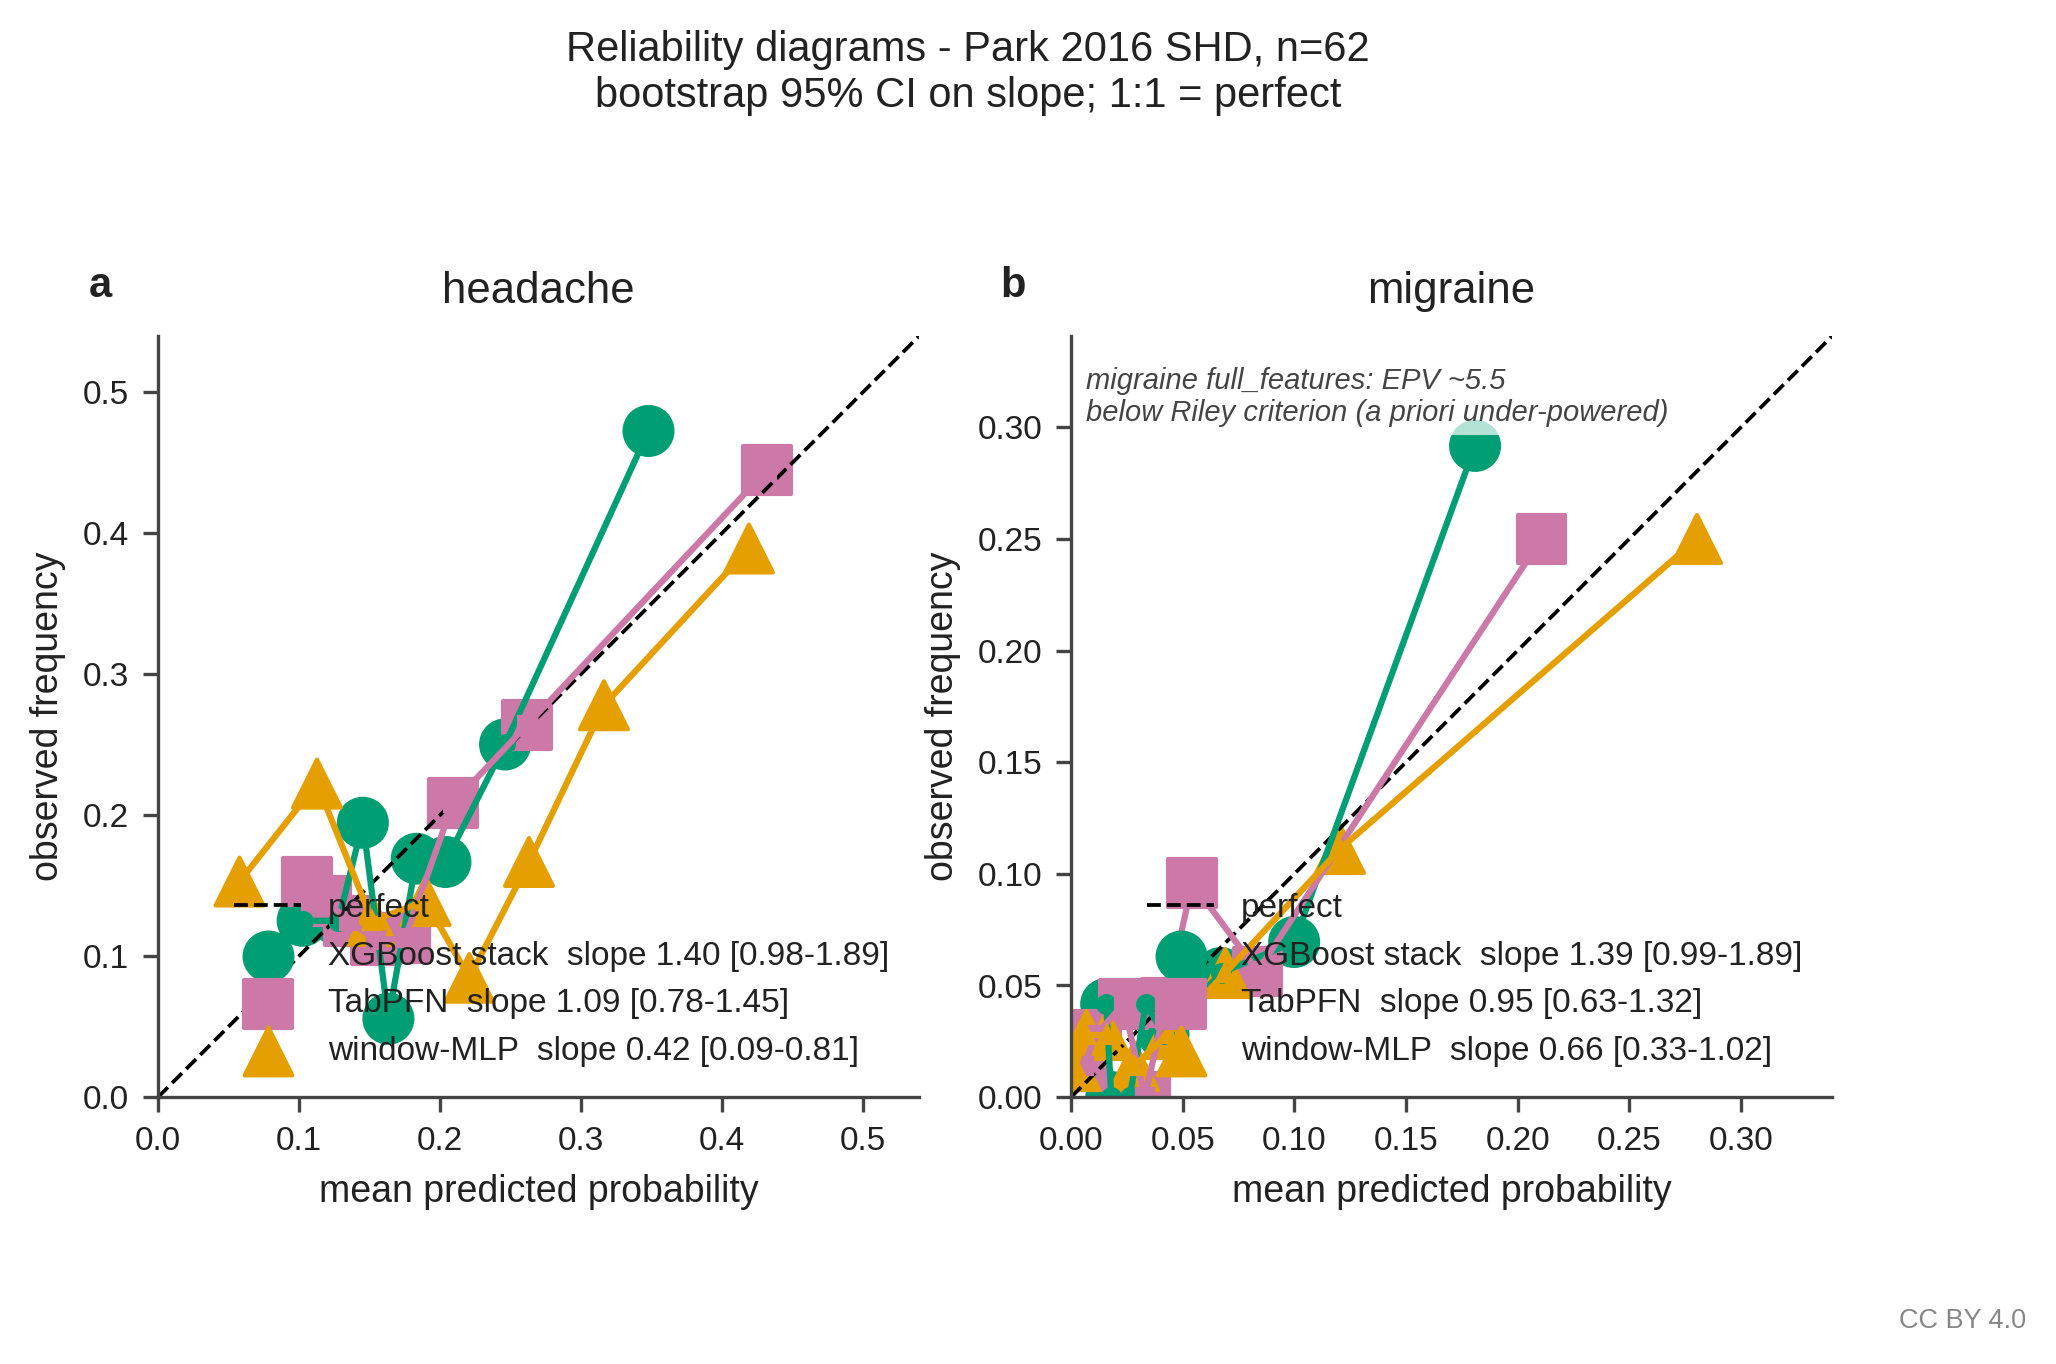
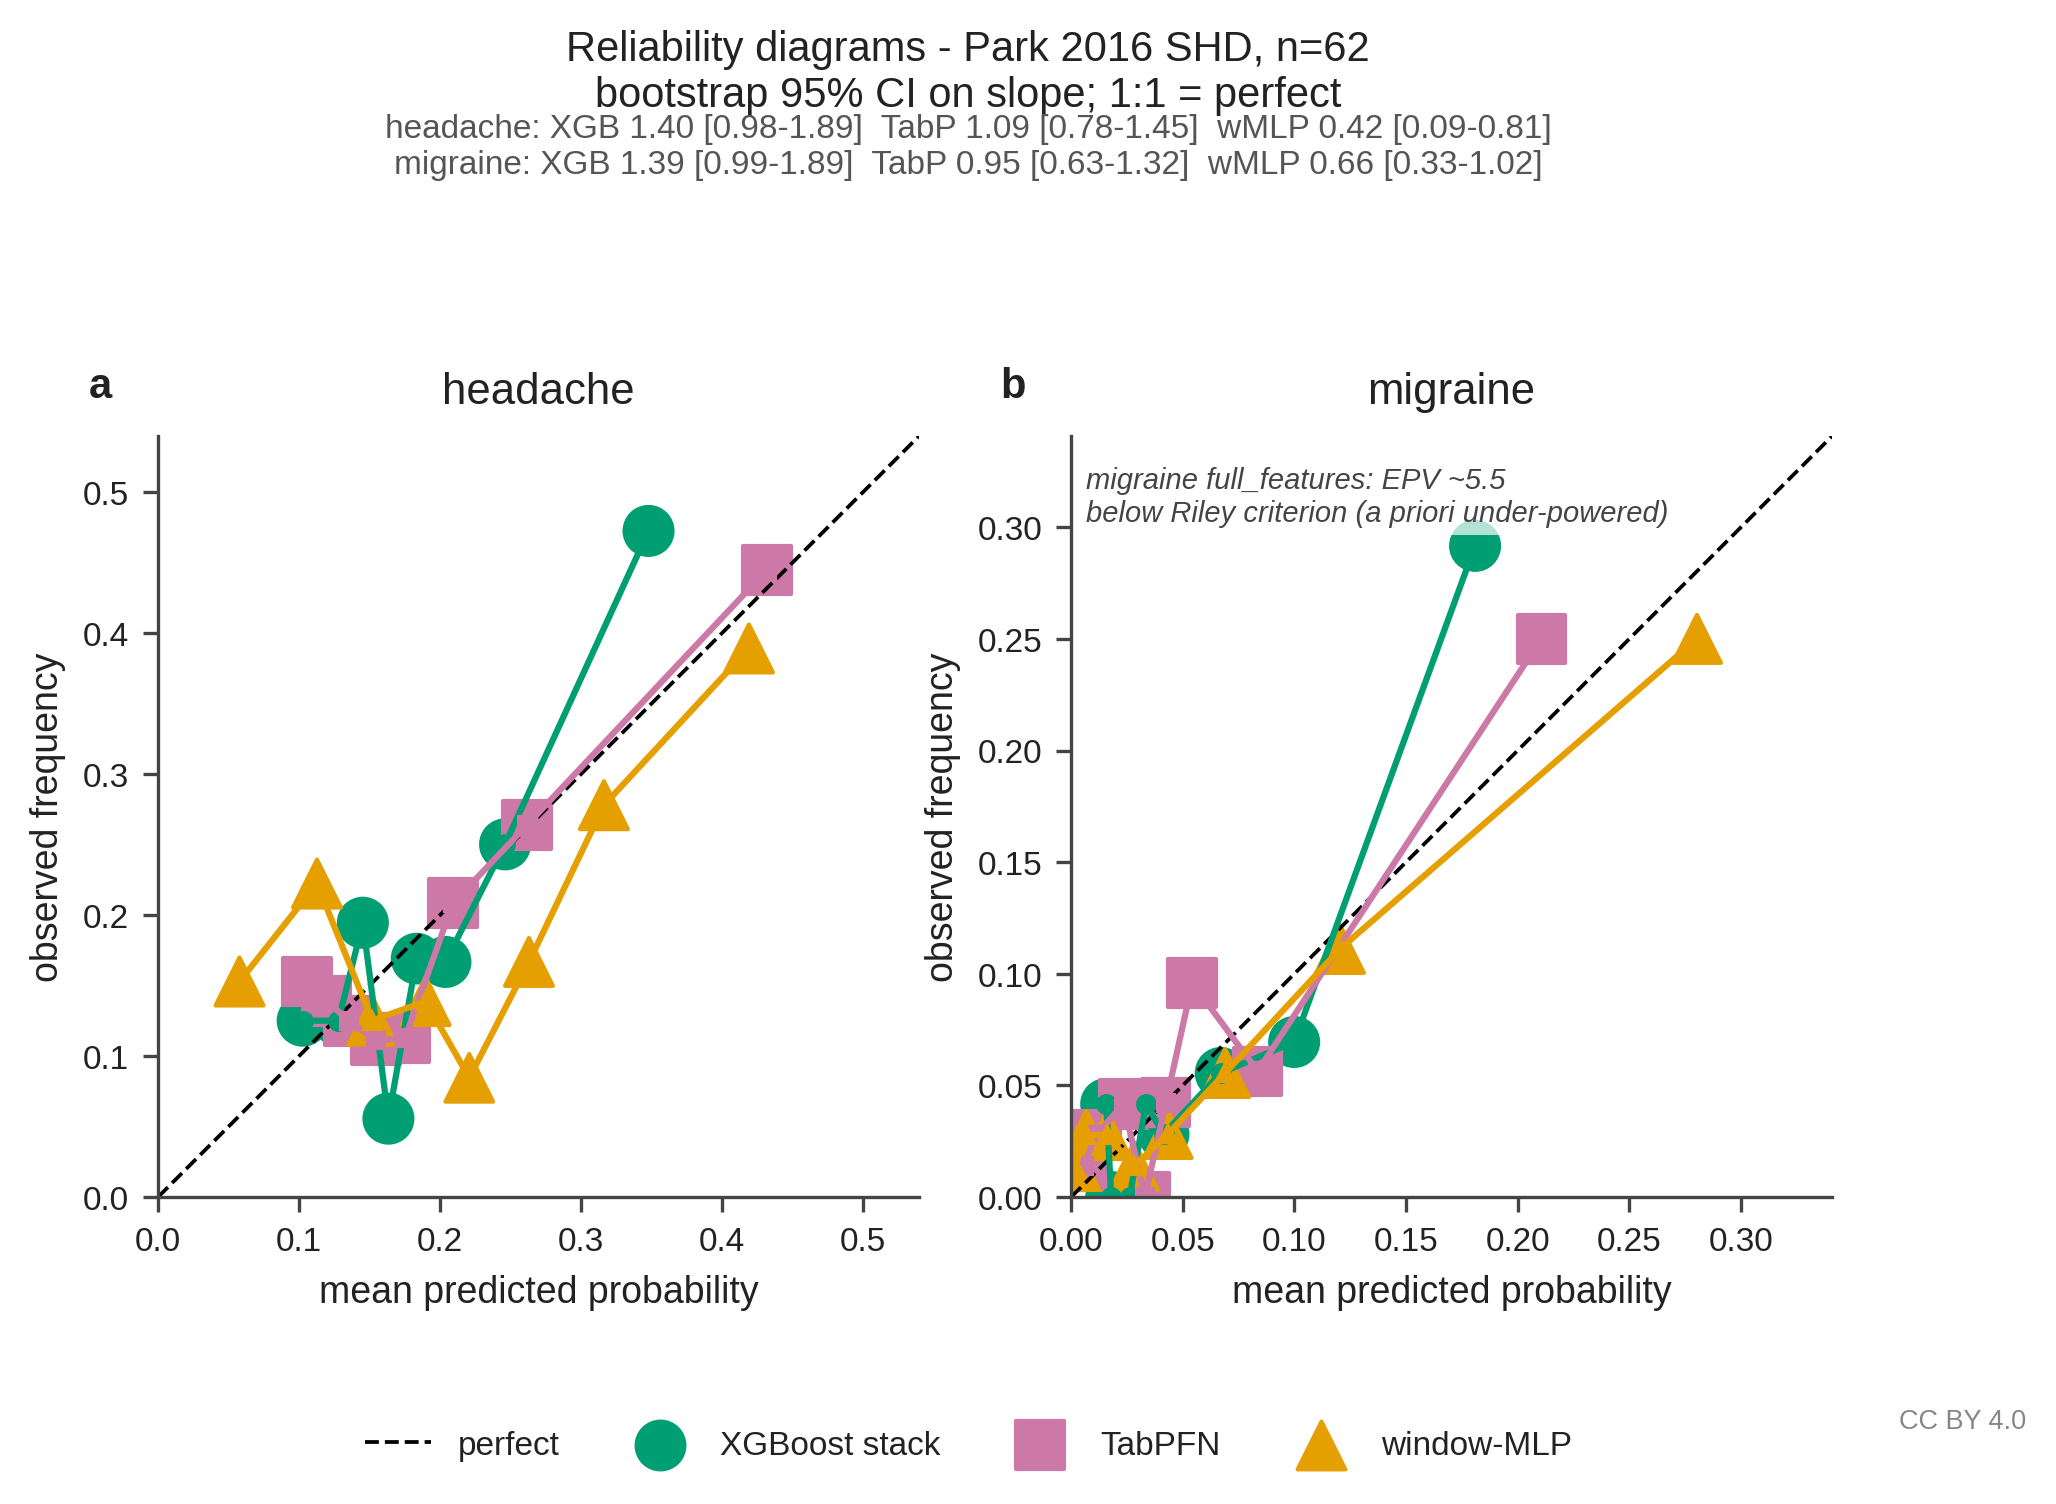
fixed fig_c3 calibration legend occluding data by relocating it to a shared frameless block below the figure per design-guide §6 line 193 ("one shared legend per figure, not one per panel, when the series are identical"), and moving the panel-specific slope CIs from the legend labels into a smaller 

diff --git a/docs/methodAndResults_diagramCreatorScripts/fig_c3_calibration.py b/docs/methodAndResults_diagramCreatorScripts/fig_c3_calibration.py
@@ -23,12 +23,13 @@ visualises the headline leaves; §6 visualises the cohort.
 Usage: python fig_c3_calibration.py
 """
 # §11 compliance (figure_design_requirements.md, reviewer-derived 2026-05-28):
-#   §11.1 CIs on headline metric:        bootstrap CI on slope in legend
+#   §11.1 CIs on headline metric:        bootstrap CI on slope in suptitle
 #   §11.3 self-contained caption:        cohort name + n + CI method in suptitle
-#   §11.6 CC BY 4.0 footer:              S.cc_by_footer() invoked
+#   §11.6 CC BY 4.0 footer:              auto-applied by S.save()
 #   §11.7 EPV-5.5 annotation:            S.epv_annotation() on migraine panel
 #   §11.10 no "substantial"/"large":     verified
 #   §11.11 self-check:                   this block
+#   §6 shared legend:                    fig.legend frameless below panels
 import os
 import subprocess
 import sys
@@ -158,6 +159,8 @@ def main():
     for _ax, _lt in zip(axes.ravel(), "abcdefgh"):
         S.panel_label(_ax, _lt)
     mark = {"XGBoost stack": "o", "TabPFN": "s", "window-MLP": "^"}  # CVD/grayscale reinforcement
+    abbr = {"XGBoost stack": "XGB", "TabPFN": "TabP", "window-MLP": "wMLP"}
+    slopes_by_target: dict[str, list[tuple[str, float, float, float]]] = {"headache": [], "migraine": []}
     for ax, tgt in zip(axes, ("headache", "migraine")):
         ax.plot([0, 1], [0, 1], color=S.REF_COLOR, lw=S.REF_LW, ls="--", label="perfect")
         hi = 0.0
@@ -173,9 +176,8 @@ def main():
             col = S.arch_color(label)
             mk = mark.get(label, "o")
             ax.plot(xs, ys, "-", color=col, lw=1.5, marker=mk, markersize=4)
-            slug = S.leaf_slug(leaf)
-            ax.scatter(xs, ys, s=sizes, color=col, marker=mk,
-                       label=f"{label}  slope {slope:.2f} [{slope_lo:.2f}-{slope_hi:.2f}]")
+            ax.scatter(xs, ys, s=sizes, color=col, marker=mk, label=label)
+            slopes_by_target[tgt].append((label, slope, slope_lo, slope_hi))
             hi = max(hi, xs.max(), ys.max())
             print(f"  {tgt:<9} {label:<13} slope {slope:+.2f} [{slope_lo:+.2f}-{slope_hi:+.2f}]  bins {len(xs)}")
         lim = min(1.0, hi * 1.1 + 0.02)
@@ -184,11 +186,22 @@ def main():
         ax.set_xlabel("mean predicted probability")
         ax.set_ylabel("observed frequency")
         ax.set_title(tgt)
-        ax.legend(loc="lower right")
         S.epv_annotation(ax, tgt, cell="full_features", loc="upper left")
+    handles, labels = axes[0].get_legend_handles_labels()
+    fig.legend(handles, labels, fontsize=8, ncol=4, loc="lower center",
+               bbox_to_anchor=(0.5, -0.04), frameon=False)
+
+    def _slope_line(tgt: str) -> str:
+        parts = [f"{abbr.get(lab, lab)} {sl:.2f} [{lo:.2f}-{hi:.2f}]"
+                 for lab, sl, lo, hi in slopes_by_target[tgt]]
+        return f"{tgt}: " + "  ".join(parts)
+
     fig.suptitle("Reliability diagrams - Park 2016 SHD, n=62\n"
-                 "bootstrap 95% CI on slope; 1:1 = perfect", y=1.04, fontsize=10)
-    S.cc_by_footer(fig)
+                 "bootstrap 95% CI on slope; 1:1 = perfect",
+                 y=1.12, fontsize=10)
+    fig.text(0.5, 1.00,
+             _slope_line("headache") + "\n" + _slope_line("migraine"),
+             ha="center", va="bottom", fontsize=8, color=S.GREY)
     print("saved", S.save(fig, HERE / "figures" / "fig_c3_calibration"))
 
 
